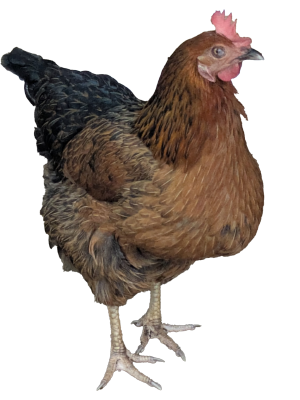
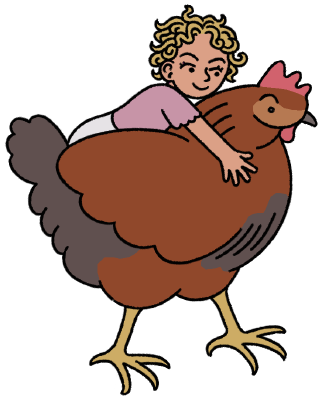
added mem and mags, also tweaked hints in twine

diff --git a/battle/src/battle/attack-animations.js b/battle/src/battle/attack-animations.js
@@ -565,7 +565,7 @@ export class AttackAnimations {
         sprite
             .setPosition(startX, y)
             .setAlpha(1)
-            .setScale(.5)
+            .setScale(.63)
             .setDepth(DEPTHS.ATTACKS);
 
         this.playSound(attack);
@@ -578,29 +578,30 @@ export class AttackAnimations {
 
             onComplete: () => {
 
-                sprite.play(attack._spriteKey);
+                sprite.setFrame(1);
 
-                scene.time.delayedCall(500, () => {
-                    callback();
+                console.log(sprite.frame.name);
+
+                scene.time.delayedCall(1000, () => {
+                    sprite.setFrame(0);
+
+                    scene.time.delayedCall(500, () => {
+                        scene.sound.play(SFX_KEYS.POTATO);
+                        callback();
+                    });
+
+                    scene.tweens.add({
+                        targets: sprite,
+                        x: endX,
+                        duration: 600,
+                        ease: 'Quad.In',
+
+                        onComplete: () => {
+                            cleanup();
+                        }
+                    });
                 });
 
-                sprite.once(
-                    Phaser.Animations.Events.ANIMATION_COMPLETE,
-                    () => {
-
-                        scene.tweens.add({
-                            targets: sprite,
-                            x: endX,
-                            duration: 600,
-                            ease: 'Quad.In',
-
-                            onComplete: () => {
-                                cleanup();
-                            }
-                        });
-
-                    }
-                );
             }
         });
     }
@@ -619,7 +620,7 @@ export class AttackAnimations {
         const startX = -sprite.width;
         const endX = width + sprite.width;
 
-        const groundY = height * 0.25;
+        const groundY = height * 0.35;
 
         sprite
             .setPosition(startX, groundY)

diff --git a/index.html b/index.html
@@ -1693,6 +1693,13 @@ you got some broccoli!
 &quot;mood&quot;,&quot;happy&quot;,
 &quot;text&quot;,_hint)
 ))
+(if: _hintitem is &quot;He-Man&quot; or &quot;Candy&quot;)[(set: $dialoguetext to it + (a:
+(dm:
+&quot;character&quot;,&quot;elo&quot;,
+&quot;mood&quot;,&quot;happy&quot;,
+&quot;text&quot;,&quot;Remember, you can get gems by playing piano 3 times, or by going to CMAC!&quot;)
+))
+]
 ]
 (else:)[
 (set: $dialoguetext to (a:
@@ -1809,6 +1816,10 @@ you got some broccoli!
 (dm:
 &quot;character&quot;,&quot;narrator&quot;,
 &quot;mood&quot;,&quot;none&quot;,
+&quot;text&quot;,&quot;Danny spends a gem to play some videogames!&quot;),
+(dm:
+&quot;character&quot;,&quot;narrator&quot;,
+&quot;mood&quot;,&quot;none&quot;,
 &quot;text&quot;,&quot;Danny sits down to play Minecraft when the phone rings.&quot;),
 (dm:
 &quot;character&quot;,&quot;jeremy&quot;,
@@ -1856,6 +1867,10 @@ you got some broccoli!
 (set: $items&#39;s &quot;Candy&quot;&#39;s &quot;found&quot; to true)
 (set: $gems to it - 1)
 (set: $dialoguetext to (a:
+(dm:
+&quot;character&quot;,&quot;narrator&quot;,
+&quot;mood&quot;,&quot;none&quot;,
+&quot;text&quot;,&quot;Danny spends a gem to play some videogames!&quot;),
 (dm:
 &quot;character&quot;,&quot;narrator&quot;,
 &quot;mood&quot;,&quot;none&quot;,

diff --git a/battle/src/scenes/preload-scene.js b/battle/src/scenes/preload-scene.js
@@ -189,8 +189,8 @@ export class PreloadScene extends Phaser.Scene {
                     families: ['VT323'],
                 },
                 active: () => {
-                    this.scene.start(SCENE_KEYS.INTRO_SCENE);
-                    //this.scene.start(SCENE_KEYS.BATTLE_SCENE);
+                    //this.scene.start(SCENE_KEYS.INTRO_SCENE);
+                    this.scene.start(SCENE_KEYS.BATTLE_SCENE);
                     //this.scene.start(SCENE_KEYS.OUTRO_SCENE);
                     //this.scene.start(SCENE_KEYS.CREDITS_SCENE);
                 },
